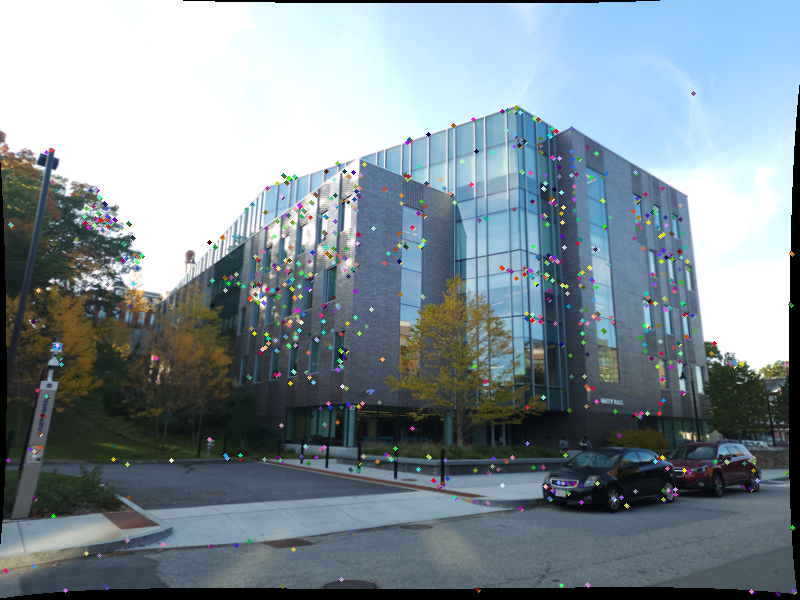
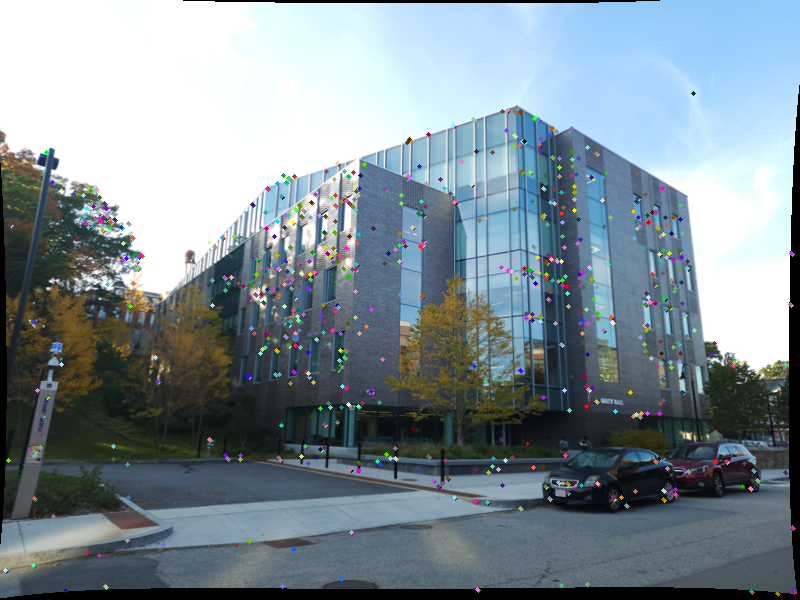
optimizer

diff --git a/Phase1/main.py b/Phase1/main.py
@@ -10,7 +10,7 @@ from EstimateFundamentalMatrix import (
     init_optimization_variables,
     cameraCalibrationCasADi,
 )
-import cv2 as cv2
+import cv2 as cvw
 
 
 def SetData(dl, K):
@@ -68,32 +68,38 @@ def main():
             F = getFundamentalMatrix(pixels_1.T, pixels_2.T, num_point=8)
             tol = 1
 
-            # Ransac over the points
-            # F_og, mask_og = getFundamentalMatRANSAC(
-            # ptsA=pixels_1, ptsB=pixels_2, tol=tol, num_sample=8, confidence=0.99
-            # )
-
-            # sift over the pair of images to compute features
+            # Compute sift features from the images
             ptsA, ptsB = get_features(n, img_n, DATA_DIR)
             plotMatches(dl, n, img_n, DATA_DIR, ptsA.T, ptsB.T, "Verification")
 
-            # Compute fundamental matrix sift without ransacs
-            F_aux = getFundamentalMatrix(ptsA, ptsB, num_point=8)
+            # Compute fundamental matrix
+            # F_aux = getFundamentalMatrix(ptsA, ptsB, num_point=8)
+            # F_aux, mask_sift = getFundamentalMatRANSAC(
+            #    ptsA=ptsA, ptsB=ptsB, tol=tol, num_sample=8, confidence=0.99
+            # )
 
-            F_aux, mask_sift = getFundamentalMatRANSAC(
-                ptsA=ptsA, ptsB=ptsB, tol=tol, num_sample=8, confidence=0.99
+            F_ree, mask = cv2.findFundamentalMat(
+                ptsA,
+                ptsB,
+                cv2.FM_RANSAC,
+                ransacReprojThreshold=1.6,
+                confidence=0.99,
+                maxIters=5000,
             )
 
             # Get Re-estimate Fundamental matrix using only inliers
-            inliersA_og = ptsA[mask_sift.ravel() == 1]
-            inliersB_og = ptsB[mask_sift.ravel() == 1]
-            F_ree, _ = getFundamentalMatRANSAC(
-                ptsA=inliersA_og,
-                ptsB=inliersB_og,
-                tol=tol,
-                num_sample=8,
-                confidence=0.99,
-            )
+            inliersA_og = ptsA[mask.ravel() == 1]
+            inliersB_og = ptsB[mask.ravel() == 1]
+            # F_ree, _ = getFundamentalMatRANSAC(
+            #    ptsA=inliersA_og,
+            #    ptsB=inliersB_og,
+            #    tol=tol,
+            #    num_sample=8,
+            #    confidence=0.99,
+            # )
+            print(ptsA)
+            print(inliersA_og.shape)
+
             ## Normalize data
             inliersA_og = np.vstack(
                 (inliersA_og.T, np.ones((1, inliersA_og.shape[0])))
@@ -103,17 +109,18 @@ def main():
             )  # Shape: (3, N)
             points_A_normalized_inlier = inliersA_og
             points_B_normalized_inlier = inliersB_og
+
+            ## Compute Rotation and translation
             R_ransac, t_ransac, _inliers = recoverPoseFromFundamental(
                 F_ree, K, points_A_normalized_inlier, points_B_normalized_inlier
             )
+
             ## Projection Matrix
             F_identity = np.eye(3)
             Identity = np.hstack([np.eye(3), np.zeros((3, 1))])  # 3x4 matri
             I = np.eye(3, 3)
             t = np.zeros((3, 1))
-
             aux_last_element_homogeneous = np.array([[0.0, 0.0, 0.0, 1.0]])
-
             T_1 = np.vstack(
                 (
                     np.hstack((I, t)),  # shape: (3,4)
@@ -126,10 +133,10 @@ def main():
                     aux_last_element_homogeneous,
                 )
             )
-
             P1 = K @ F_identity @ Identity @ T_1
             P2 = K @ F_identity @ Identity @ T_2
 
+            ## Triangulation
             # pts3D_4xN = triangulatePoints(
             # points_A_normalized_inlier, points_B_normalized_inlier, P1, P2
             # )
@@ -142,7 +149,7 @@ def main():
             )  # OpenCV's Linear-Eigen triangl
             pts3D_4xN = pts3D_4xN / pts3D_4xN[3, :]
 
-            # Nonlinear Optimizer
+            # Nonlinear Optimizer for translations, rotation and points in world
             x_init = init_optimization_variables(t_ransac, R_ransac, pts3D_4xN[0:3, :])
             x_vector_opt, x_trans_opt, R_quaternion_opt, distortion_opt = (
                 cameraCalibrationCasADi(
@@ -157,13 +164,21 @@ def main():
                     pts3D_4xN,
                 )
             )
+
+            ## Points from the optimizer
             pts3D_4xN_casadi = np.vstack(
                 (x_vector_opt, np.ones((1, x_vector_opt.shape[1])))
             )
+
+            ## Show results
+            fig = plt.figure()
+
+            # Add a 3D subplot
+            ax = fig.add_subplot(111)
             plt.scatter(
                 pts3D_4xN[0, :],
                 pts3D_4xN[2, :],
-                s=5,
+                s=2,
                 color="green",
                 label="Dataset 3",
             )
@@ -174,8 +189,8 @@ def main():
                 color="blue",
                 label="Dataset 3",
             )
-            plt.xlim(-40, 40)
-
+            plt.xlim(-20, 20)
+            plt.ylim(0, 30)
             # Labeling the axes and adding a title
             plt.xlabel("X-axis")
             plt.ylabel("Y-axis")

diff --git a/Phase1/EstimateFundamentalMatrix.py b/Phase1/EstimateFundamentalMatrix.py
@@ -512,8 +512,6 @@ def cameraCalibrationCasADi(pts1, pts2, A, x_init, R1, t1, R2, t2, x):
 
     ### --- Compute reprojection error ---
     ## U_real is a numpy array; convert it to CasADi DM.
-    print(U_real1.shape)
-    print(U_improved_final_1.shape)
     error_1 = U_real1 - U_improved_final_1
     error_2 = U_real2 - U_improved_final_2
     ### Reshape error into a column vector.
@@ -525,7 +523,7 @@ def cameraCalibrationCasADi(pts1, pts2, A, x_init, R1, t1, R2, t2, x):
 
     ### --- Set up and solve the NLP ---
     nlp = {"x": a_vector, "f": cost}
-    opts = {"print_time": 1, "ipopt": {"print_level": 5}}
+    opts = {"print_time": 0, "ipopt": {"print_level": 0}}
     solver = ca.nlpsol("solver", "ipopt", nlp, opts)
     sol = solver(x0=x_init)
     a_opt_vec = np.array(sol["x"]).flatten()
